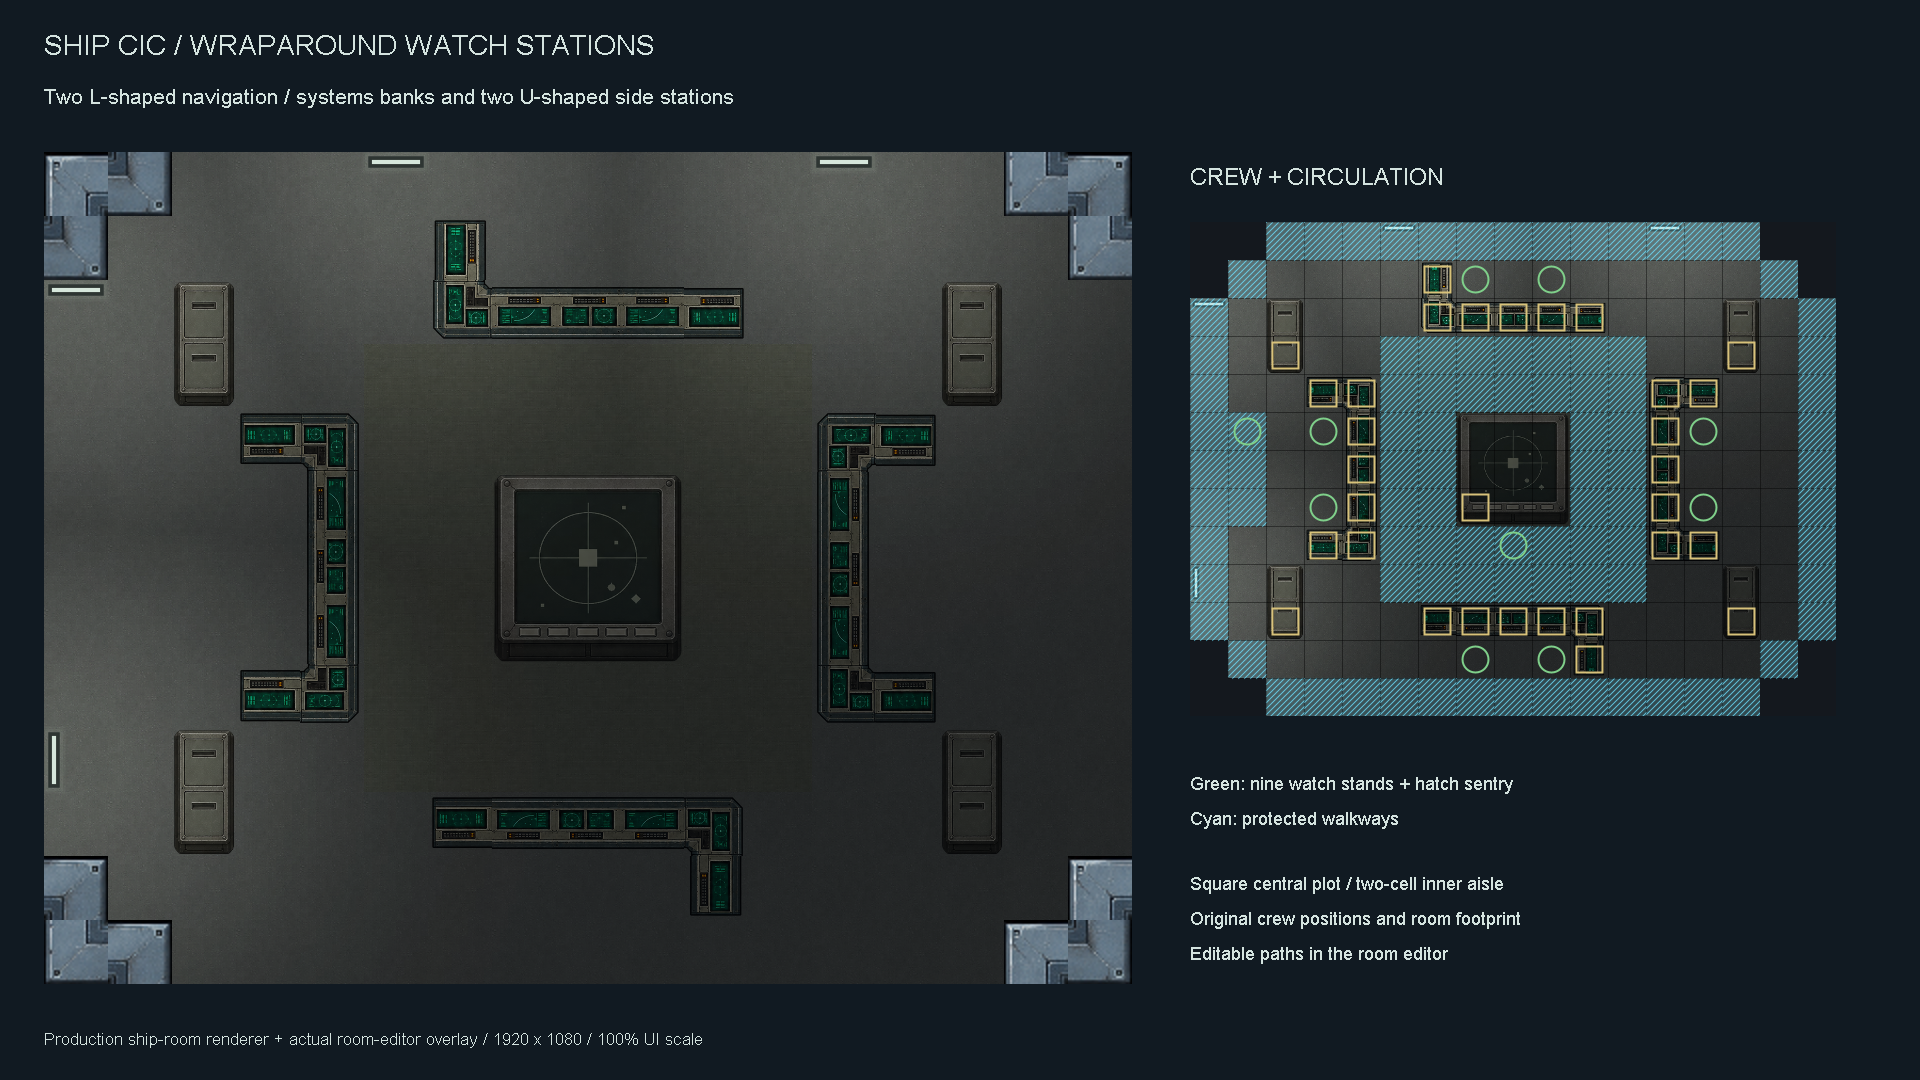
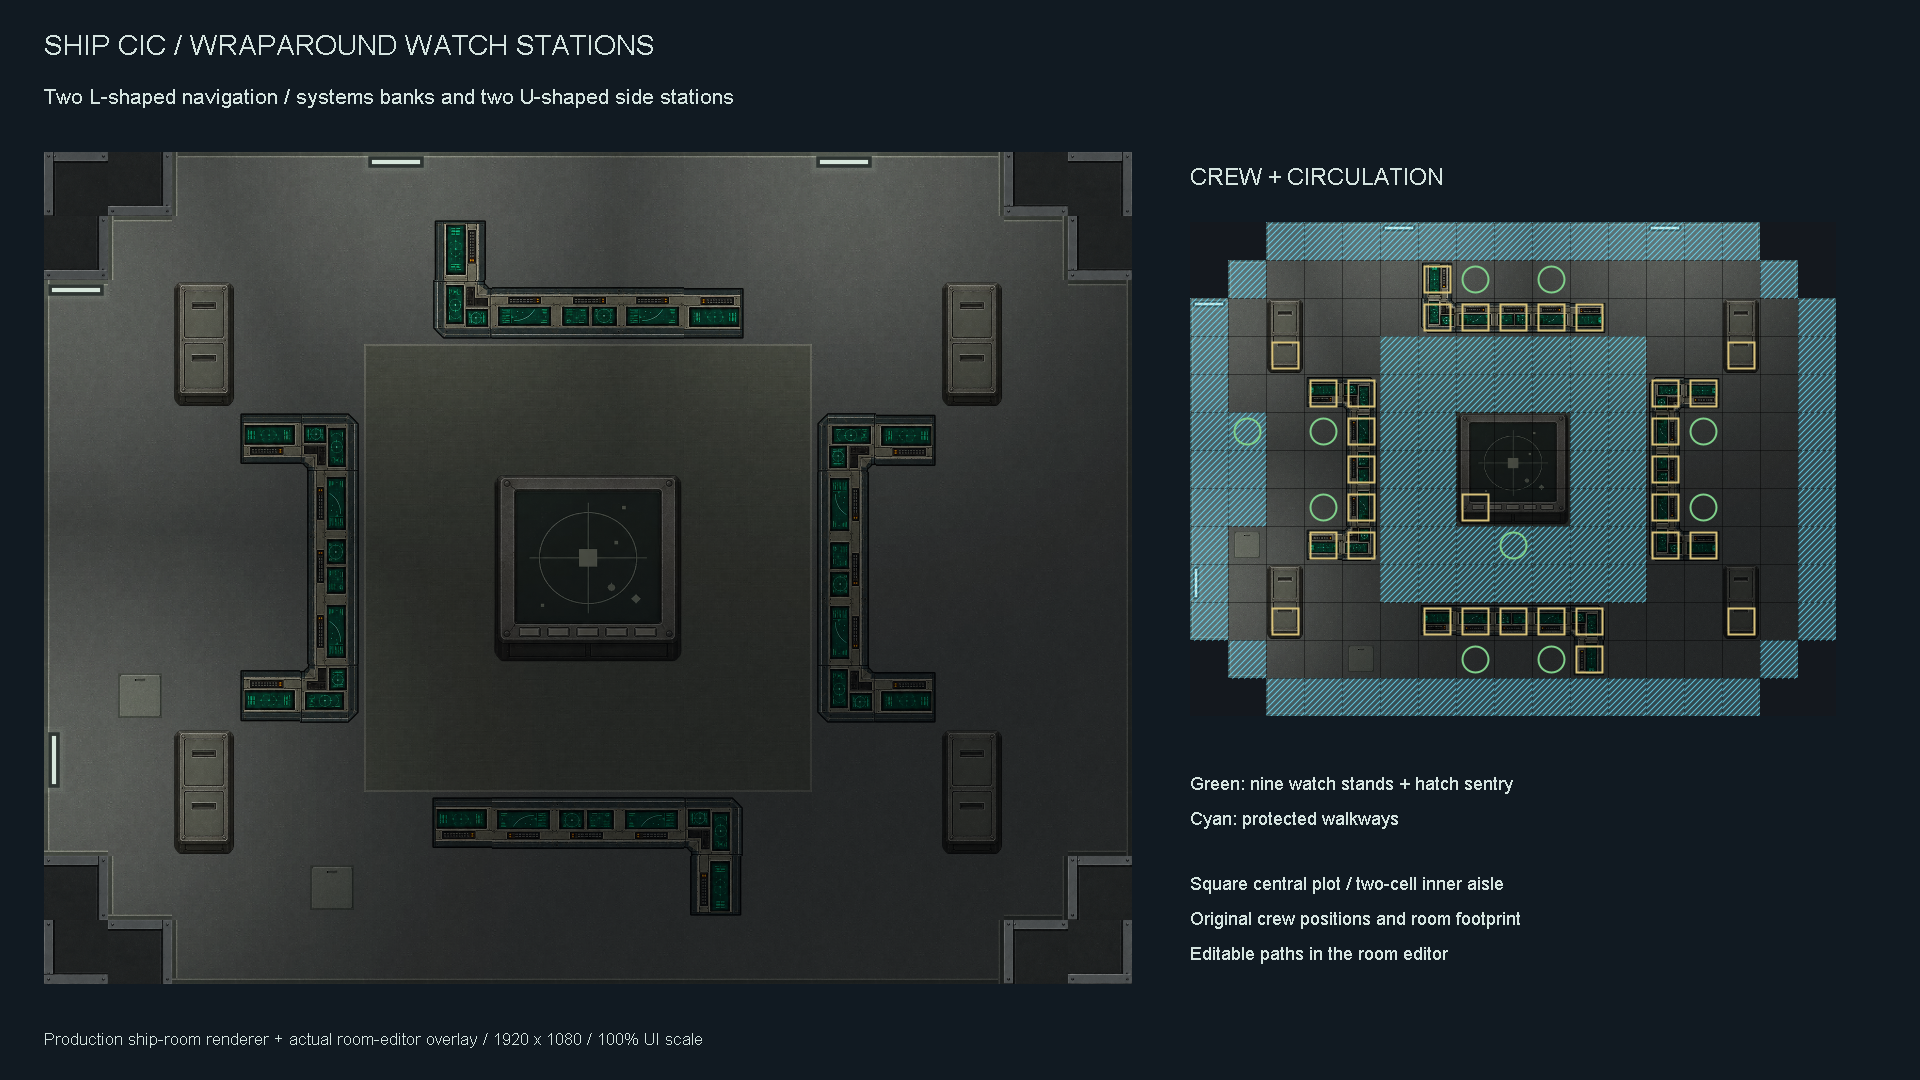
Use ship bulkhead trim in room editor previews

diff --git a/src/test/java/com/dillon/starsectormarines/tools/roomauthoring/RoomPreview.java b/src/test/java/com/dillon/starsectormarines/tools/roomauthoring/RoomPreview.java
@@ -11,6 +11,7 @@ import com.dillon.starsectormarines.battle.world.gen.fit.RoomPose;
 import com.dillon.starsectormarines.battle.world.gen.fit.RoomShape;
 import com.dillon.starsectormarines.battle.world.gen.fit.layout.AuthoredFitting;
 import com.dillon.starsectormarines.battle.world.gen.fit.layout.RoomLayout;
+import com.dillon.starsectormarines.battle.world.gen.ship.stage.ShipMaterialStage;
 import com.dillon.starsectormarines.battle.world.model.CellTopology;
 import com.dillon.starsectormarines.battle.world.model.CellTopology.GroundKind;
 import com.dillon.starsectormarines.battle.world.model.RoomPurpose;
@@ -75,6 +76,7 @@ public final class RoomPreview implements AutoCloseable {
             int y = margin + cell[1];
             grid.setWalkableFloor(x, y);
             topology.setGroundKind(x, y, GroundKind.INDOOR);
+            topology.setRoomPurpose(x, y, layout.purpose());
         }
         for (int[] cell : shape.wall()) {
             int x = margin + cell[0];
@@ -92,6 +94,9 @@ public final class RoomPreview implements AutoCloseable {
         // After the fill, because a bulkhead the room authored is stamped during
         // it and a face derived before would be derived from the wrong walls.
         WallMasks.stampUnclaimed(topology);
+        // This is the ship's room editor: use the same shell materials and thin edge trim
+        // as the generated deck, including walls visible in a chamfered room's corners.
+        new ShipMaterialStage().run(ctx);
 
         MapResult map = new MapResult(grid, topology, 0, 0, 0, 0,
                 new ArrayList<>(), new ArrayList<>(ctx.doodads));

diff --git a/roadmap/ship-interiors/design/ship-interiors-nouns.md b/roadmap/ship-interiors/design/ship-interiors-nouns.md
@@ -1328,6 +1328,8 @@ it is presentation-only by charter. The tactical articulation of a bay is a
     concrete working floors. Open thresholds and observation glass follow that
     shell. Material selection changes presentation, not circulation, cover,
     work sites or berth capacity; an authored surface remains authoritative.
+    The isolated room-editor preview applies the same ship material and trim
+    pass, so chamfered corners do not acquire generic building-wall tiles.
     Structural shell cells receive that material even where vacuum remains
     beneath them. Open vacuum never receives a floor through this material pass.
 
